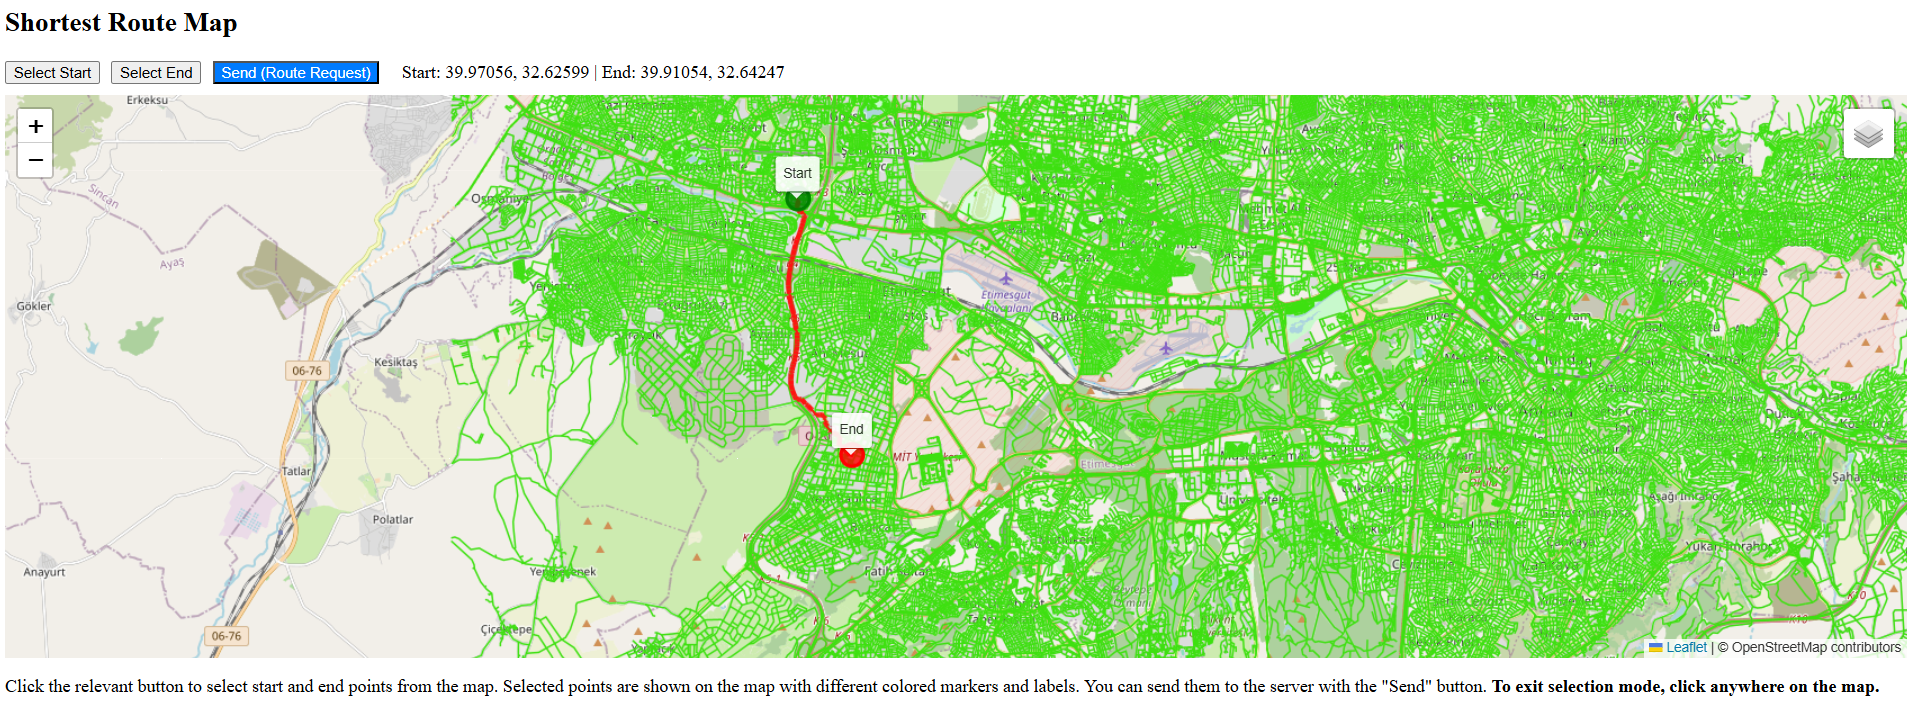
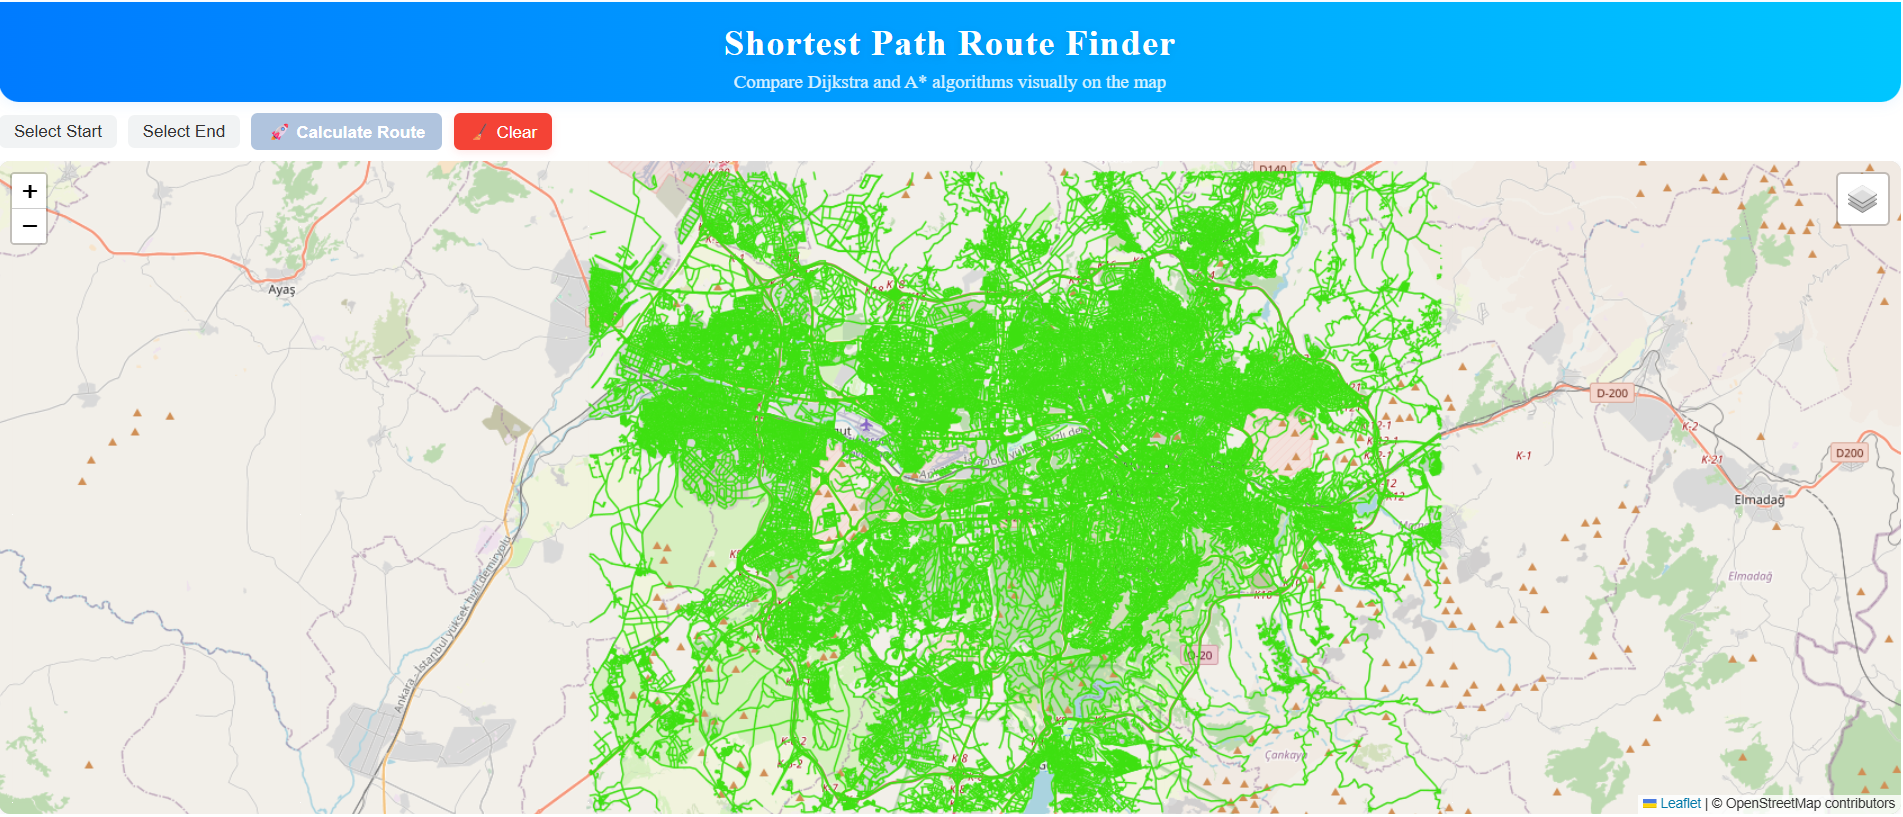
Update README and FrontendMap: Replace screenshot with animated GIF and adjust map view settings

diff --git a/frontend/FrontendMap.jsx b/frontend/FrontendMap.jsx
@@ -31,7 +31,7 @@ function FrontendMap() {
 
   useEffect(() => {
     if (!mapRef.current) {
-      const map = L.map('map').setView([39.954748, 32.7347912], 10);
+      const map = L.map('map').setView([39.93048, 32.7347912], 10.5);
       mapRef.current = map;
 
       // Basemap: OpenStreetMap
@@ -353,7 +353,7 @@ function FrontendMap() {
                 <div style={{ flex: 1, textAlign: 'center' }}>
                   <div style={{ fontWeight: 600, color: '#555', marginBottom: '4px' }}>Dijkstra</div>
                   <div style={{ fontSize: '1.1em', marginBottom: '2px' }}>
-                    <span style={{ color: '#28a745', fontWeight: 600 }}>🟢</span> {routeInfo.dijkstra ? routeInfo.dijkstra.distance.toFixed(2) : '-'} km
+                    <span style={{ color: '#8f8100ff', fontWeight: 600 }}>🟡</span> {routeInfo.dijkstra ? routeInfo.dijkstra.distance.toFixed(2) : '-'} km
                   </div>
                   <div style={{ fontSize: '0.95em', color: '#888' }}>Edge: <b>{routeInfo.dijkstra ? routeInfo.dijkstra.edgeCount : '-'}</b></div>
                 </div>

diff --git a/README.md b/README.md
@@ -2,7 +2,7 @@
 
 This project is a modern MVP web application for visualizing and comparing shortest routes on a road network using React, Leaflet, GeoServer, and a Node.js backend powered by PostgreSQL/PostGIS/pgRouting.
 
-![App Screenshot](./images/ss-mvp-simple.png)
+![App Screenshot](./images/shortest-route-finder-gif.gif)
 
 ## Features
 
